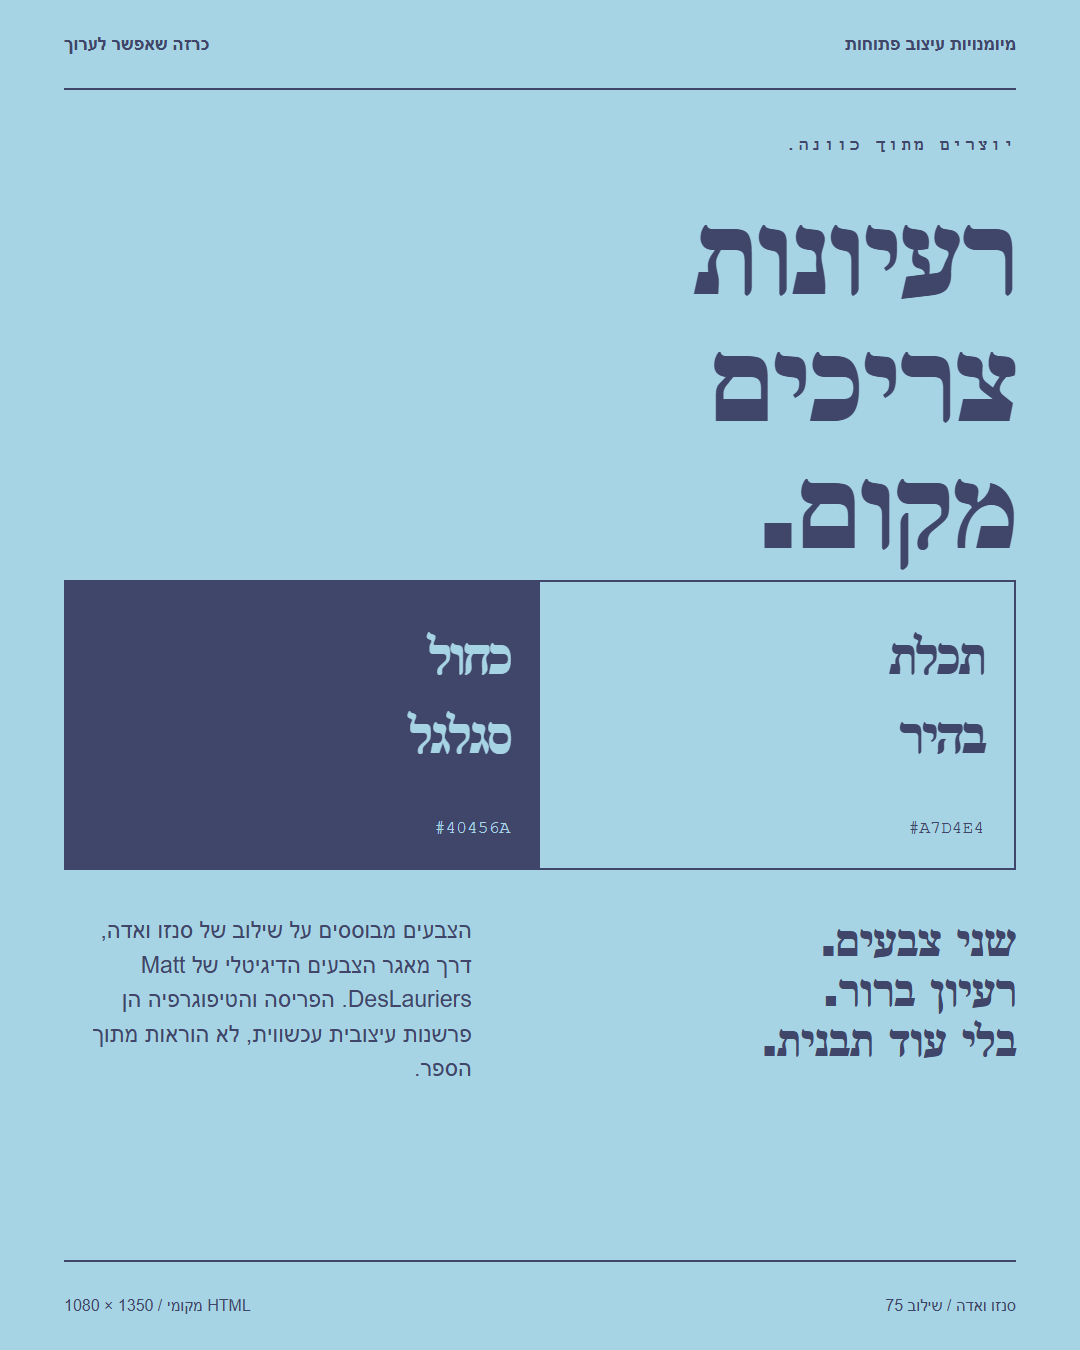
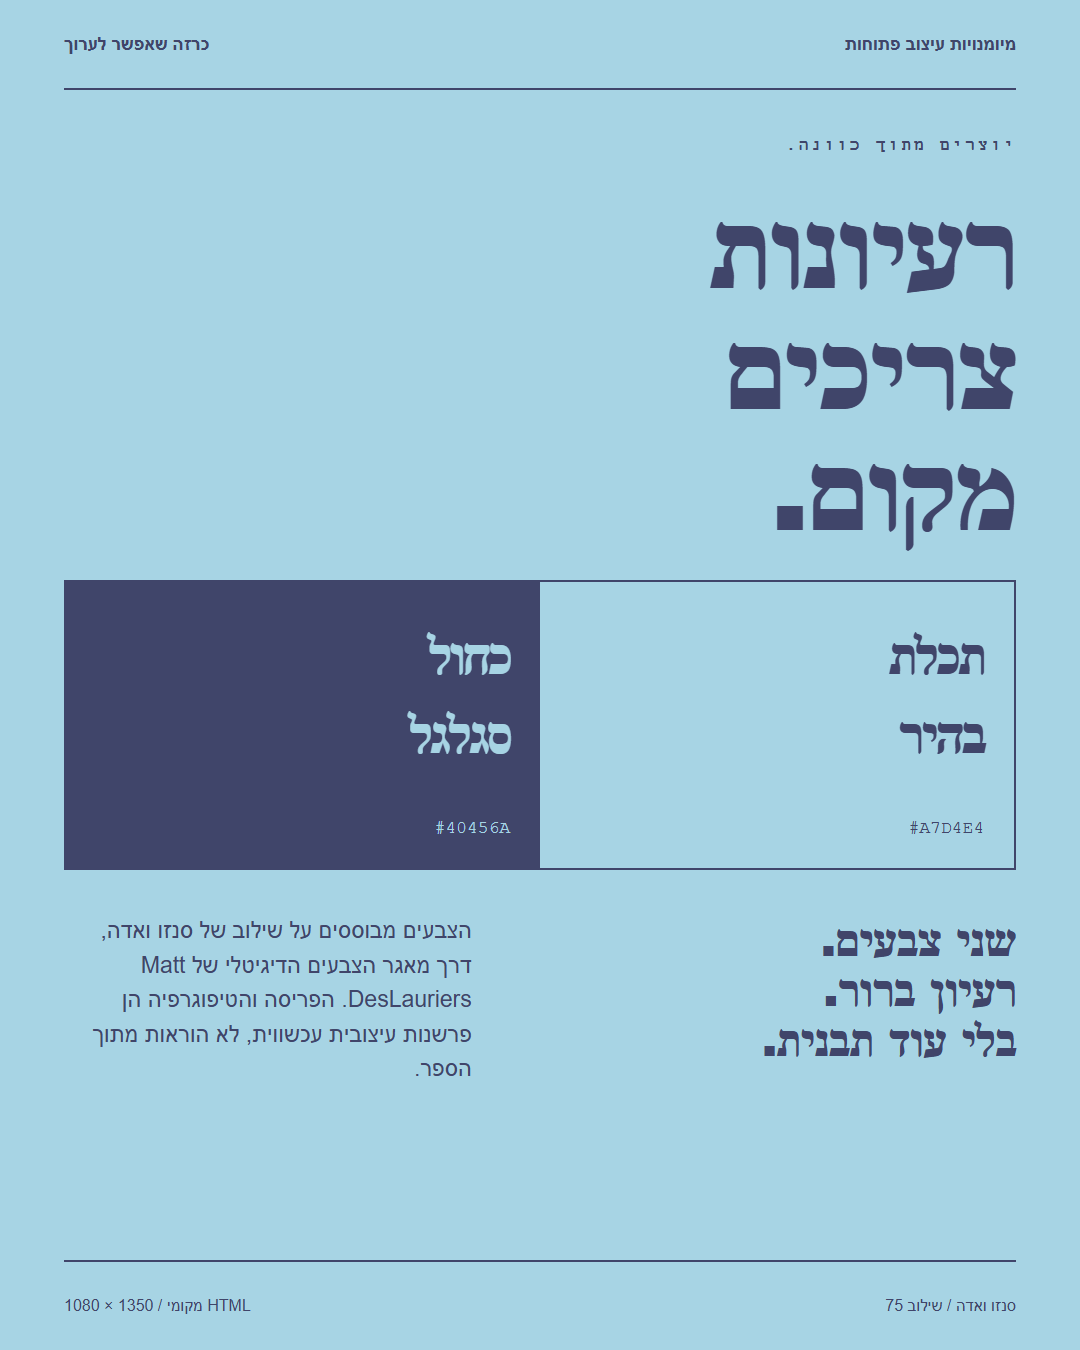
Keep Hebrew example headline clear of swatch panel

Changed region(s): [[0.6417, 0.2489, 0.9472, 0.3111], [0.6417, 0.1556, 0.9472, 0.2178], [0.7028, 0.3422, 0.9472, 0.4356]]

diff --git a/skills/html-poster-design/assets/poster-he.html b/skills/html-poster-design/assets/poster-he.html
@@ -1,4 +1,4 @@
 <!doctype html>
 <html lang="he" dir="rtl"><head><meta charset="utf-8"><meta name="viewport" content="width=device-width,initial-scale=1"><title>רעיונות צריכים מקום</title><style>
 :root{--wada-color-1:#a7d4e4;--wada-color-2:#40456a;--paper:var(--wada-color-1);--ink:var(--wada-color-2)}*{box-sizing:border-box}body{margin:0;background:var(--ink);font-family:Arial,sans-serif}.poster{width:1080px;height:1350px;background:var(--paper);color:var(--ink);padding:0 64px;display:grid;grid-template-rows:90px 490px 290px 390px 90px;overflow:hidden}.top{display:flex;align-items:center;justify-content:space-between;gap:30px;border-bottom:2px solid;font:700 18px 'Courier New',monospace}.hero{padding-top:45px}.hero>p{font:700 18px 'Courier New',monospace;letter-spacing:2px;margin:0 0 25px}h1{font:900 133px/.91 Arial,sans-serif;letter-spacing:-9px;margin:0}.art{border:2px solid;display:grid;grid-template-columns:1fr 1fr;gap:0}.panel{display:flex;flex-direction:column;justify-content:space-between;padding:30px}.panel.dark{background:var(--ink);color:var(--paper)}.panel strong{font-size:56px;font-weight:900;letter-spacing:-3px}.panel span{font:18px 'Courier New',monospace}.bottom{padding-top:43px;display:grid;grid-template-columns:1.2fr 1fr;gap:55px}.bottom h2{font:900 52px/1.04 Arial,sans-serif;letter-spacing:-2px;margin:0}.bottom p{font-size:23px;line-height:1.5;margin:0}.footer{border-top:2px solid;display:flex;align-items:center;justify-content:space-between;font:16px 'Courier New',monospace}@media print{@page{size:1080px 1350px;margin:0}body{print-color-adjust:exact;-webkit-print-color-adjust:exact}}
-h1{font-size:127px;letter-spacing:-3px;line-height:1}.bottom h2{font-size:48px;letter-spacing:-1px}.top,.footer{font-family:Arial,sans-serif}.panel span{direction:ltr;text-align:right}</style></head><body><main class="poster"><header class="top"><span>מיומנויות עיצוב פתוחות</span><span>כרזה שאפשר לערוך</span></header><section class="hero"><p>יוצרים מתוך כוונה.</p><h1>רעיונות<br>צריכים<br>מקום.</h1></section><section class="art" aria-label="The two source colors in combination 75"><div class="panel"><strong>תכלת<br>בהיר</strong><span>#A7D4E4</span></div><div class="panel dark"><strong>כחול<br>סגלגל</strong><span>#40456A</span></div></section><section class="bottom"><h2>שני צבעים.<br>רעיון ברור.<br>בלי עוד תבנית.</h2><p>הצבעים מבוססים על שילוב של סנזו ואדה, דרך מאגר הצבעים הדיגיטלי של <bdi dir="ltr">Matt DesLauriers</bdi>. הפריסה והטיפוגרפיה הן פרשנות עיצובית עכשווית, לא הוראות מתוך הספר.</p></section><footer class="footer"><span>סנזו ואדה / שילוב 75</span><span>HTML מקומי / <bdi dir="ltr">1080 × 1350</bdi></span></footer></main></body></html>
+h1{font-size:121px;letter-spacing:-3px;line-height:1}.bottom h2{font-size:48px;letter-spacing:-1px}.top,.footer{font-family:Arial,sans-serif}.panel span{direction:ltr;text-align:right}</style></head><body><main class="poster"><header class="top"><span>מיומנויות עיצוב פתוחות</span><span>כרזה שאפשר לערוך</span></header><section class="hero"><p>יוצרים מתוך כוונה.</p><h1>רעיונות<br>צריכים<br>מקום.</h1></section><section class="art" aria-label="The two source colors in combination 75"><div class="panel"><strong>תכלת<br>בהיר</strong><span>#A7D4E4</span></div><div class="panel dark"><strong>כחול<br>סגלגל</strong><span>#40456A</span></div></section><section class="bottom"><h2>שני צבעים.<br>רעיון ברור.<br>בלי עוד תבנית.</h2><p>הצבעים מבוססים על שילוב של סנזו ואדה, דרך מאגר הצבעים הדיגיטלי של <bdi dir="ltr">Matt DesLauriers</bdi>. הפריסה והטיפוגרפיה הן פרשנות עיצובית עכשווית, לא הוראות מתוך הספר.</p></section><footer class="footer"><span>סנזו ואדה / שילוב 75</span><span>HTML מקומי / <bdi dir="ltr">1080 × 1350</bdi></span></footer></main></body></html>
